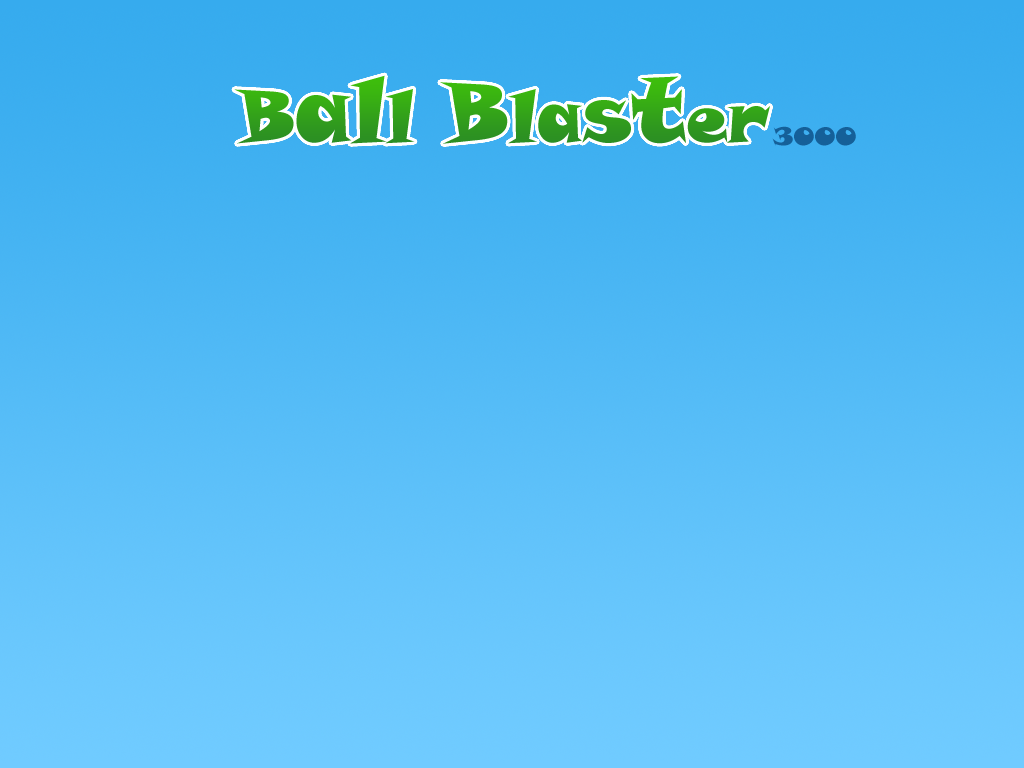
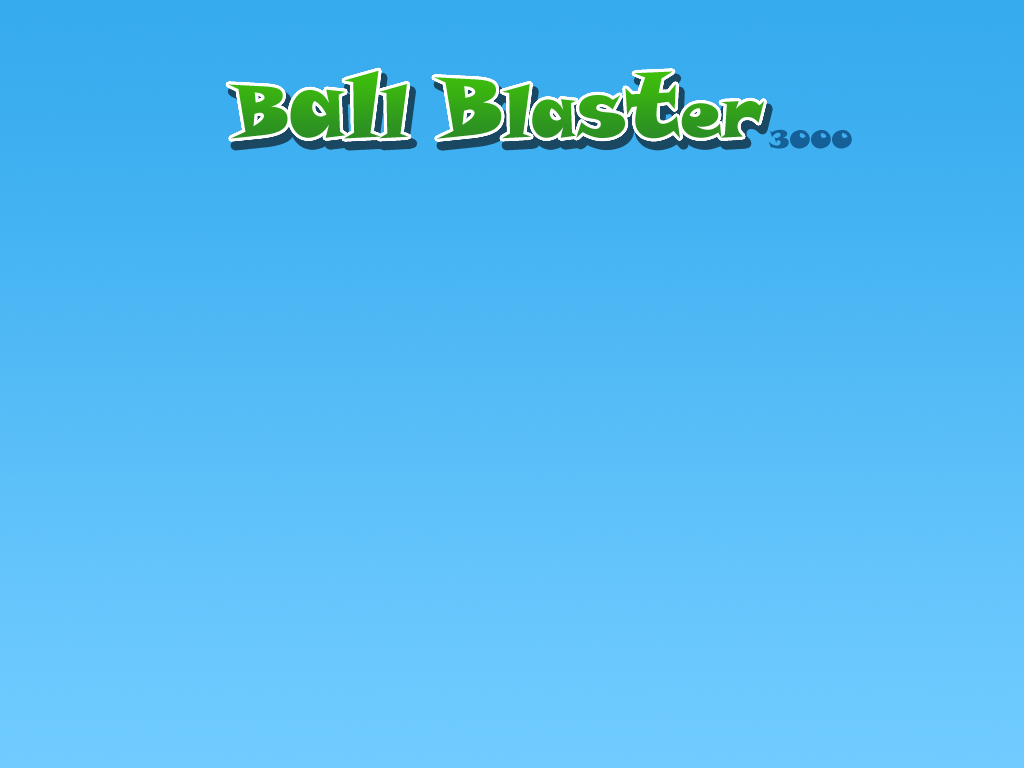
Changed menu background a little and changed to full screen

Changed region(s): [[0.2188, 0.0625, 0.8438, 0.2188]]

diff --git a/Headers/graphics.h b/Headers/graphics.h
@@ -12,7 +12,7 @@ public:
 	static const int SCREEN_WIDTH	= 1024;
 	static const int SCREEN_HEIGHT	= 768;
 	static const int SCREEN_BPP		= 32;
-	static const int SCREEN_FLAGS	= SDL_SWSURFACE; // | SDL_FULLSCREEN; // Creates a surface in system memory
+	static const int SCREEN_FLAGS	= SDL_SWSURFACE  | SDL_FULLSCREEN; // Creates a surface in system memory
 	static const int IMAGE_FLAGS	= SDL_SWSURFACE | SDL_SRCALPHA; // Creates a surface in system memory with alpha-blending enabled
 #if 0
 #if SDL_BYTEORDER == SDL_BIG_ENDIAN
